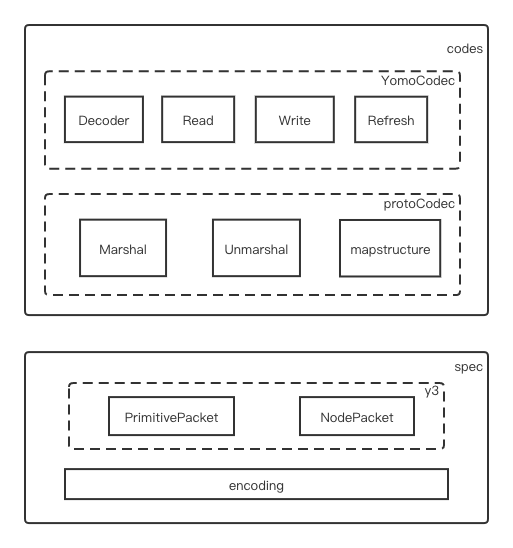
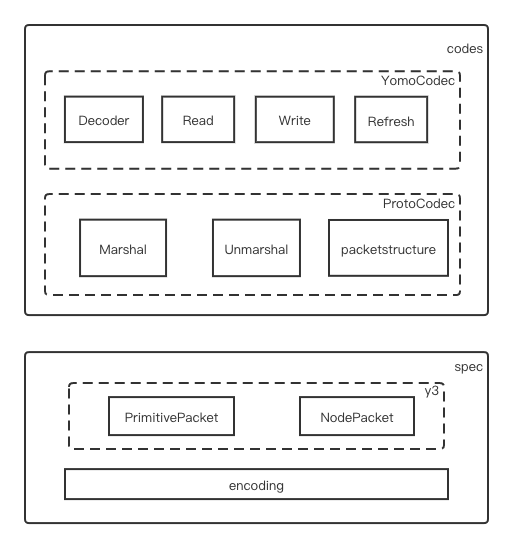
fix test bug and description (#37)
closes #35 #36

Changed region(s): [[0.6238, 0.4033, 0.8733, 0.5274], [0.7173, 0.2172, 0.8109, 0.2482], [0.7485, 0.3412, 0.7797, 0.3723]]

diff --git a/pkg/codes/yomo_benchmark_test.go b/pkg/codes/yomo_benchmark_test.go
@@ -3,6 +3,8 @@ package codes
 import (
 	"fmt"
 	"testing"
+
+	"github.com/yomorun/yomo-codec-golang/pkg/packetutils"
 )
 
 func BenchmarkBasicMax(b *testing.B) {
@@ -39,7 +41,7 @@ func BenchmarkBasic(b *testing.B) {
 
 func BenchmarkPerson(b *testing.B) {
 	observe := "0x20"
-	inputBuf := NewCodecBenchmarkData().DefaultPersonData()
+	inputBuf := NewCodecBenchmarkData().BuildPersonData(packetutils.KeyOf(observe))
 	codec := NewCodec(observe)
 	//codec.Decoder(inputBuf)
 	//v, e := codec.Read(&Person{})

diff --git a/pkg/codes/test_data.go b/pkg/codes/test_data.go
@@ -7,13 +7,13 @@ func NewCodecBenchmarkData() *CodecBenchmarkData {
 	return &CodecBenchmarkData{}
 }
 
-func (d *CodecBenchmarkData) DefaultPersonData() []byte {
+func (d *CodecBenchmarkData) BuildPersonData(observe byte) []byte {
 	input := Person{
 		Name: "zhang san",
 		Age:  25,
 	}
 
-	proto := NewProtoCodec(byte(0))
+	proto := NewProtoCodec(observe)
 	inputBuf, _ := proto.Marshal(input)
 
 	return inputBuf

diff --git a/pkg/codes/yomo.go b/pkg/codes/yomo.go
@@ -16,7 +16,7 @@ var (
 // YomoCodec: codec interface for yomo
 type YomoCodec interface {
 	Decoder(buf []byte)
-	Read(mold interface{}) (interface{}, error) // TODO: 考虑掉返回interface{}
+	Read(mold interface{}) (interface{}, error)
 	Write(w io.Writer, T interface{}, mold interface{}) (int, error)
 	Refresh(w io.Writer) (int, error)
 }

diff --git a/README_CN.md b/README_CN.md
@@ -36,36 +36,44 @@ Golang implementation of [YoMo Codec](https://github.com/yomorun/yomo-codec)
 
 ### codes
 
-在spec的基础上提供面向应用的扩展能力，分为原始proto和YoMo两层扩展，以便更加弹性的支持不同类型的框架集成。
+在spec的基础上提供面向应用的扩展能力，分为原始Proto和YoMo两层扩展，以便更加弹性的支持不同类型的框架集成。
 
-* protoCodec：实现了序列化和反序列化的接口方法，支持基础数据类型及其数组、结构体类型；为以此为基础构建特定框架适配的编解码接口工具提供必要的封装和能力，不需重复开发。
+* ProtoCodec：实现了序列化和反序列化的接口方法，支持基础数据类型及其数组、结构体类型；为以此为基础构建特定框架适配的编解码接口工具提供必要的封装和能力，不需重复开发。
 
   ```go 
   type ProtoCodec interface {
   	// Marshal: Marshal interface to []byte
   	Marshal(input interface{}) ([]byte, error)
   	// MarshalNoWrapper: Marshal interface to []byte, but no Outside Nodes
-  	MarshalNoWrapper(input interface{}) ([]byte, error)
-	// UnmarshalStruct: Unmarshal struct to interface
+  	MarshalNative(input interface{}) ([]byte, error)
+		// UnmarshalStruct: Unmarshal struct to interface
   	UnmarshalStruct(data []byte, mold interface{}) error
-	// UnmarshalBasic: Unmarshal basic type to interface
+	  // UnmarshalStructNative: Unmarshal struct to interface by native data, No Outside Nodes
+    UnmarshalStructNative(data []byte, mold interface{}) error
+		// UnmarshalBasic: Unmarshal basic type to interface
   	UnmarshalBasic(data []byte, mold *interface{}) error
-	// IsStruct: mold is Struct?
+  // UnmarshalBasicNative: Unmarshal basic type to interface by native data, No Outside Nodes
+    UnmarshalBasicNative(data []byte, mold *interface{}) error
+  	// IsStruct: mold is Struct?
   	IsStruct(mold interface{}) bool
-}
+  }
   ```
   
   * Marshal：提供序列化能力
   
-  * Marshal：提供序列化能力，但不填充额外的包装节点
+  * MarshalNative：提供序列化能力，但不填充额外的包装节点
   
   * UnmarshalStruct：提供struct的反序化能力
   
+  * UnmarshalStructNative：提供struct的反序化能力，但没有包装节点
+  
   * UnmarshalBasic：提供基础类型的反序化能力
+  
+  * UnmarshalBasicNative：提供基础类型的反序化能力，但没有包装节点
   
   * IsStruct: 判断当前对象是否为可被解析的struct，可以调用UnmarshalStruct
   
-  * packetstructure：为ProtoCodec接口提供对结构体的编解码能力，并在定义struct时通过"yomo"标签描述其编解码的行为(key)：
+  * packetstructure包：为ProtoCodec接口提供对结构体的编解码能力，并在定义struct时通过"yomo"标签描述其编解码的行为(key)：
   
     ```go 
     type Example struct {
@@ -74,7 +82,7 @@ Golang implementation of [YoMo Codec](https://github.com/yomorun/yomo-codec)
     }
     ```
   
-* YomoCodec：在protoCodec的基础上封装了对[YoMo](https://github.com/yomorun/yomo)框架的支持接口，该接口特定于框架的特定需求(如合并模式: *解析--监听--存储--读取--处理--合并--写入*)，针对于其它框架或者[YoMo](https://github.com/yomorun/yomo)框架不同版本的需要，则可以自定义开发不同的支持接口，以满足实际应用的需求。
+* YomoCodec：在ProtoCodec的基础上封装了对[YoMo](https://github.com/yomorun/yomo)框架的支持接口，该接口特定于框架的特定需求(如合并模式: *解析--监听--存储--读取--处理--合并--写入*)，针对于其它框架或者[YoMo](https://github.com/yomorun/yomo)框架不同版本的需要，则可以自定义开发不同的支持接口，以满足实际应用的需求。
 
   ```go 
   type YomoCodec interface {
@@ -111,11 +119,11 @@ for {
 }
 ```
 
-随着[YoMo](https://github.com/yomorun/yomo)框架对消息处理的变更，例如不需要在处理被监听的数据后与原数据进行合并了，这时需要对YomoCodec接口进行升级来为新的需求进行适配，但此时使用的protoCodec接口一般来说是不需要变动，可以继续使用，从而提高了扩展开发的便利性。
+随着[YoMo](https://github.com/yomorun/yomo)框架对消息处理的变更，例如不需要在处理被监听的数据后与原数据进行合并了，这时需要对YomoCodec接口进行升级来为新的需求进行适配，但此时使用的ProtoCodec接口一般来说是不需要变动，可以继续使用，从而提高了扩展开发的便利性。
 
-### 2.protoCodec的例子
+### 2.ProtoCodec的例子
 
-protoCodec为面向应用提供了最基础的序列化和反序列化能力，是构建面向应用的更高级接口的基础，当我们需要构建满足自已需求的接口时可以使用protoCodec接口来做。
+ProtoCodec为面向应用提供了最基础的序列化和反序列化能力，是构建面向应用的更高级接口的基础，当我们需要构建满足自已需求的接口时可以使用protoCodec接口来做。
 
 #### Marshal examples 1: 基础类型
 
@@ -131,13 +139,13 @@ import (
 func main() {
 	// "y-new" serialize to `0x79, 0x2d, 0x6e, 0x65, 0x77`
 	str := "y-new"
-	proto := codes.NewProtoCodec("")
+	proto := codes.NewProtoCodec(byte(0))
 	buf, _ := proto.Marshal(str)
 	fmt.Printf("buf=%#x\n", buf)
 }
 ```
 
-More examples in `/pkg/codes/marshal_test.go`
+More examples in `/pkg/codes/marshal_basic_test.go`
 
 #### Marshal examples 2: 结构体
 
@@ -152,7 +160,7 @@ import (
 
 func main() {
 	example := Example{Id: 1, Name: "y"}
-	proto := codes.NewProtoCodec("")
+	proto := codes.NewProtoCodec(0x30)
 	buf, _ := proto.Marshal(example)
 	fmt.Printf("buf=%#x\n", buf)
 }
@@ -179,7 +187,7 @@ func main() {
 	// `0x01, 0x03, 0x23, 0x1, 0x79` deserialize to "y"
   // observe key 0x23
 	data := []byte{0x01, 0x03, 0x23, 0x1, 0x79}
-	proto := codes.NewProtoCodec("0x23")
+	proto := codes.NewProtoCodec(0x23)
 	var mold interface{} = ""
 	_ = proto.UnmarshalBasic(data, &mold)
 	fmt.Printf("mold is %v, value=%v\n", reflect.TypeOf(mold).Kind(), mold)
@@ -202,7 +210,7 @@ import (
 
 func main() {
 	data := []byte{0x81, 0x8, 0xb0, 0x6, 0x22, 0x1, 0x1, 0x23, 0x1, 0x79}
-	proto := codes.NewProtoCodec("0x30")
+	proto := codes.NewProtoCodec(0x30)
 	var mold = Example{}
 	_ = proto.UnmarshalStruct(data, &mold)
 	fmt.Printf("%v\n", mold)
@@ -364,7 +372,7 @@ More examples in `/pkg/spec/encoding/pvarint_test.go|varfloat_test.go`
 * Person：从1对KV中获取结构体的值
 * PersonMax：从46对KV中获取第20个KEY中的结构体的值
 
-#### 被测试接口：
+#### 被测试接口(联合)：
 
 * YomoCodec.Decoder
 * YomoCodec.Read
